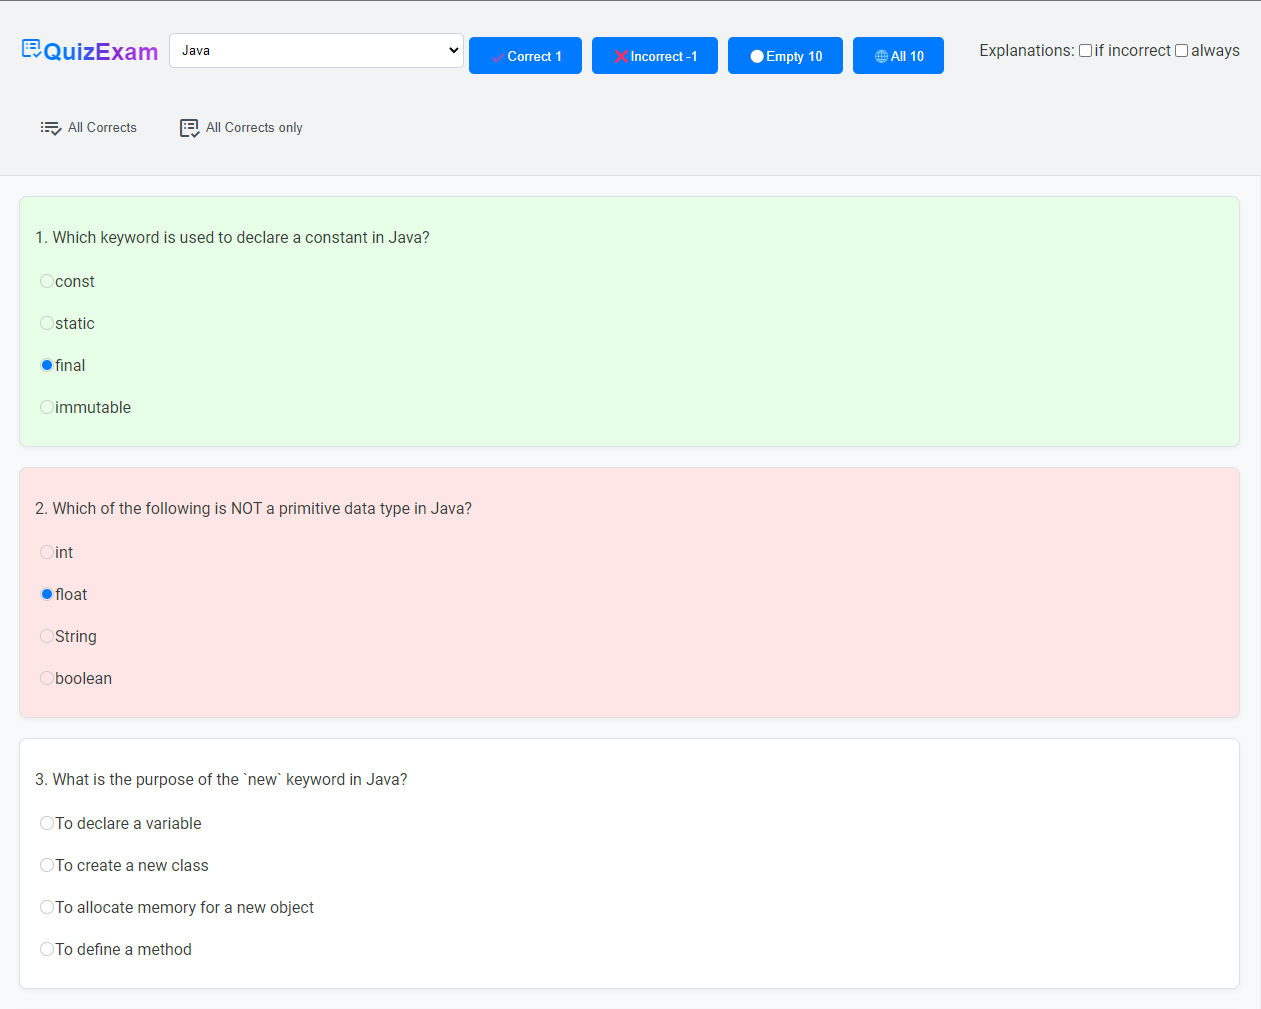
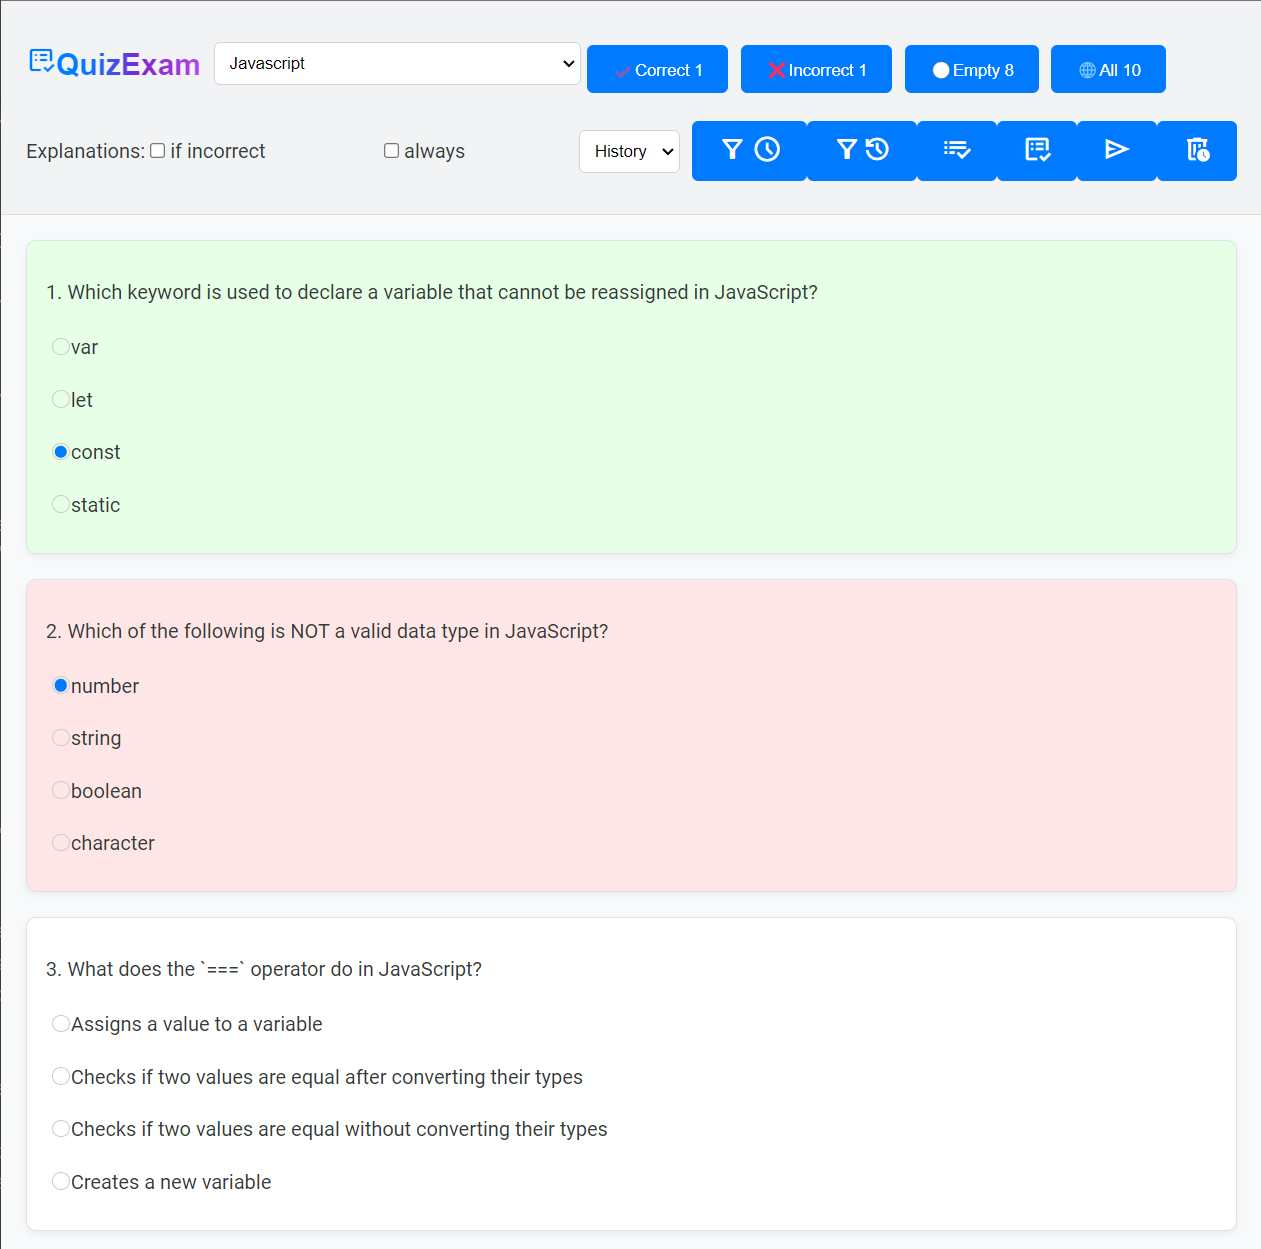
.
.

diff --git a/README.md b/README.md
@@ -11,6 +11,13 @@
 
 # Quiz Exam Real Time Score
 Quiz Exam preparation. Allow some text explanation to help. Green green or red color if correct/wrong answer in a realtime js before submit form. Keep the Score in realtime.
+- [x] Add your custom Quiz Exam
+- [x] Keep the incorrect questions with timeStamp
+- [x] Try again any incorrect quiz
+- [x] Try again all incorrect quiz
+- [x] Show / hide explanation or extra help of each question
+- [x] No database needed, works with FileStorage
+- [x] No server config needed, works on localhost or free online solutions like vercel, netlify,...
 
 # GPG Encripted Description Method
 This method allow:
